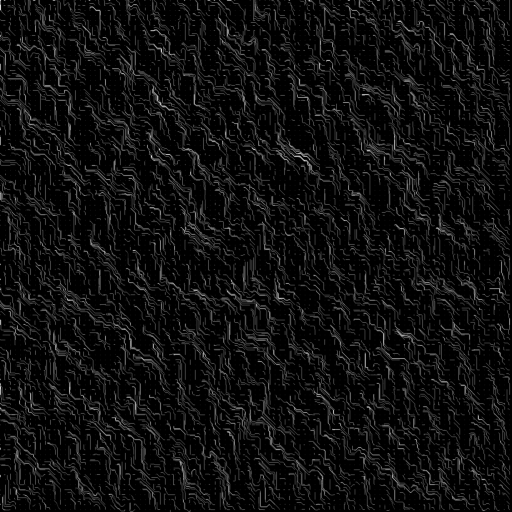
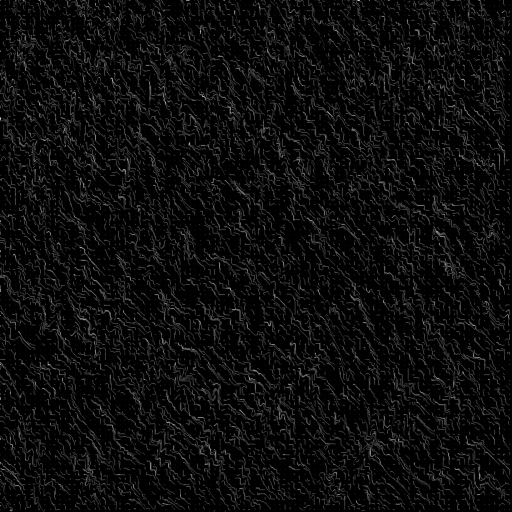
switched from using advection to using phase

diff --git a/app/src/main/java/engine/rendering/ShaderPipeline.java b/app/src/main/java/engine/rendering/ShaderPipeline.java
@@ -1,27 +1,7 @@
 package engine.rendering;
 
 import static org.lwjgl.opengl.GL30.*;
-import static org.lwjgl.opengl.GL11.GL_COLOR_BUFFER_BIT;
-import static org.lwjgl.opengl.GL11.GL_DEPTH_COMPONENT;
-import static org.lwjgl.opengl.GL11.GL_DEPTH_TEST;
-import static org.lwjgl.opengl.GL11.GL_FLOAT;
-import static org.lwjgl.opengl.GL11.GL_LINEAR;
-import static org.lwjgl.opengl.GL11.GL_NEAREST;
-import static org.lwjgl.opengl.GL11.GL_RGBA;
-import static org.lwjgl.opengl.GL11.GL_TEXTURE_2D;
-import static org.lwjgl.opengl.GL11.GL_TEXTURE_MAG_FILTER;
-import static org.lwjgl.opengl.GL11.GL_TEXTURE_MIN_FILTER;
-import static org.lwjgl.opengl.GL11.GL_TEXTURE_WRAP_S;
-import static org.lwjgl.opengl.GL11.GL_TEXTURE_WRAP_T;
-import static org.lwjgl.opengl.GL11.GL_UNSIGNED_BYTE;
-import static org.lwjgl.opengl.GL11.GL_UNSIGNED_INT;
-import static org.lwjgl.opengl.GL11.glBindTexture;
-import static org.lwjgl.opengl.GL11.glClear;
-import static org.lwjgl.opengl.GL11.glClearColor;
-import static org.lwjgl.opengl.GL11.glDisable;
-import static org.lwjgl.opengl.GL11.glGenTextures;
-import static org.lwjgl.opengl.GL11.glTexImage2D;
-import static org.lwjgl.opengl.GL11.glTexParameteri;
+import static org.lwjgl.opengl.GL11.*;
 import static org.lwjgl.opengl.GL12.GL_CLAMP_TO_EDGE;
 import static org.lwjgl.opengl.GL42.*;
 
@@ -29,13 +9,9 @@ import static org.lwjgl.opengl.GL13.GL_TEXTURE0;
 import static org.lwjgl.opengl.GL13.glActiveTexture;
 import static org.lwjgl.opengl.GL14.GL_DEPTH_COMPONENT24;
 import static org.lwjgl.opengl.GL15.GL_READ_ONLY;
-import static org.lwjgl.opengl.GL15.GL_READ_WRITE;
 import static org.lwjgl.opengl.GL15.GL_WRITE_ONLY;
 
 import java.nio.ByteBuffer;
-import java.nio.FloatBuffer;
-
-import org.lwjgl.BufferUtils;
 
 import engine.AssetManager;
 import engine.rendering.ColourCurve.Curve;
@@ -48,7 +24,6 @@ public class ShaderPipeline {
     private int pingBuffer;
     private int pongBuffer;
     private int depthBuffer;
-    private int advectionBuffer;
 
     private Mesh screenQuad;
     private Shader framebufferShader;
@@ -90,7 +65,7 @@ public class ShaderPipeline {
 
     public ColourCurve ColourGradeCurve = new ColourCurve(Curve.Default(), Curve.Default(), Curve.Default());
 
-    public float deltaTime;
+    public float Time = 0.0f;
 
     private int screenWidth;
     private int screenHeight;
@@ -120,41 +95,12 @@ public class ShaderPipeline {
         );
     }
 
-    private void initAdvectionTexture() {
-        FloatBuffer buffer = BufferUtils.createFloatBuffer(screenWidth * screenHeight * 4);
-
-        for (int y = 0; y < screenHeight; y++) {
-            for (int x = 0; x < screenWidth; x++) {
-                float u = (x + 0.5f) / screenWidth;
-                float v = (y + 0.5f) / screenHeight;
-
-                buffer.put(u);
-                buffer.put(v);
-                buffer.put(0.0f);
-                buffer.put(1.0f);
-            }
-        }
-
-        buffer.flip();
-
-        glBindTexture(GL_TEXTURE_2D, advectionBuffer);
-        glTexParameteri(GL_TEXTURE_2D, GL_TEXTURE_WRAP_S, GL_REPEAT);
-        glTexParameteri(GL_TEXTURE_2D, GL_TEXTURE_WRAP_T, GL_REPEAT);
-        glTexParameteri(GL_TEXTURE_2D, GL_TEXTURE_MAG_FILTER, GL_LINEAR);
-        glTexParameteri(GL_TEXTURE_2D, GL_TEXTURE_MIN_FILTER, GL_LINEAR);
-
-        glTexImage2D(
-                GL_TEXTURE_2D, 0, GL_RGBA16F, screenWidth, screenHeight, 0, GL_RGBA, GL_FLOAT, buffer
-        );
-    }
-
     public ShaderPipeline(Shader framebufferShader, int width, int height) {
         this.FBO = glGenFramebuffers();
         this.colourBuffer = glGenTextures();
         this.pingBuffer = glGenTextures();
         this.pongBuffer = glGenTextures();
         this.depthBuffer = glGenTextures();
-        this.advectionBuffer = glGenTextures();
 
         this.screenQuad = Mesh.Quad();
 
@@ -167,7 +113,6 @@ public class ShaderPipeline {
         initTexture(colourBuffer);
         initTexture(pingBuffer);
         initTexture(pongBuffer);
-        initAdvectionTexture();
         initDepthTexture();
 
         glFramebufferTexture2D(GL_FRAMEBUFFER, GL_COLOR_ATTACHMENT0, GL_TEXTURE_2D, colourBuffer, 0);
@@ -193,8 +138,6 @@ public class ShaderPipeline {
 
         glBindTexture(GL_TEXTURE_2D, pongBuffer);
         glTexImage2D(GL_TEXTURE_2D, 0, GL_RGBA16F, width, height, 0, GL_RGBA, GL_FLOAT, (ByteBuffer) null);
-
-        initAdvectionTexture();
 
         glBindTexture(GL_TEXTURE_2D, depthBuffer);
         glTexImage2D(
@@ -287,8 +230,7 @@ public class ShaderPipeline {
             fog.setTexture("CurlMap", curlTexture, 2);
             fog.setFloat("CurlStrength", CurlStrength);
             fog.setFloat("FogDensity", FogDensity);
-            fog.setFloat("DeltaTime", deltaTime);
-            glBindImageTexture(3, advectionBuffer, 0, false, 0, GL_READ_WRITE, GL_RGBA16F);
+            fog.setFloat("Time", Time);
 
             runShader(fog, currentTexture, target);
 

diff --git a/app/src/main/java/engine/App.java b/app/src/main/java/engine/App.java
@@ -118,7 +118,7 @@ public class App {
             glClear(GL_COLOR_BUFFER_BIT | GL_DEPTH_BUFFER_BIT);
             scene.draw();
 
-            pipeline.deltaTime = (float) deltaTime;
+            pipeline.Time += (float) deltaTime;
 
             pipeline.process();
             pipeline.render();
